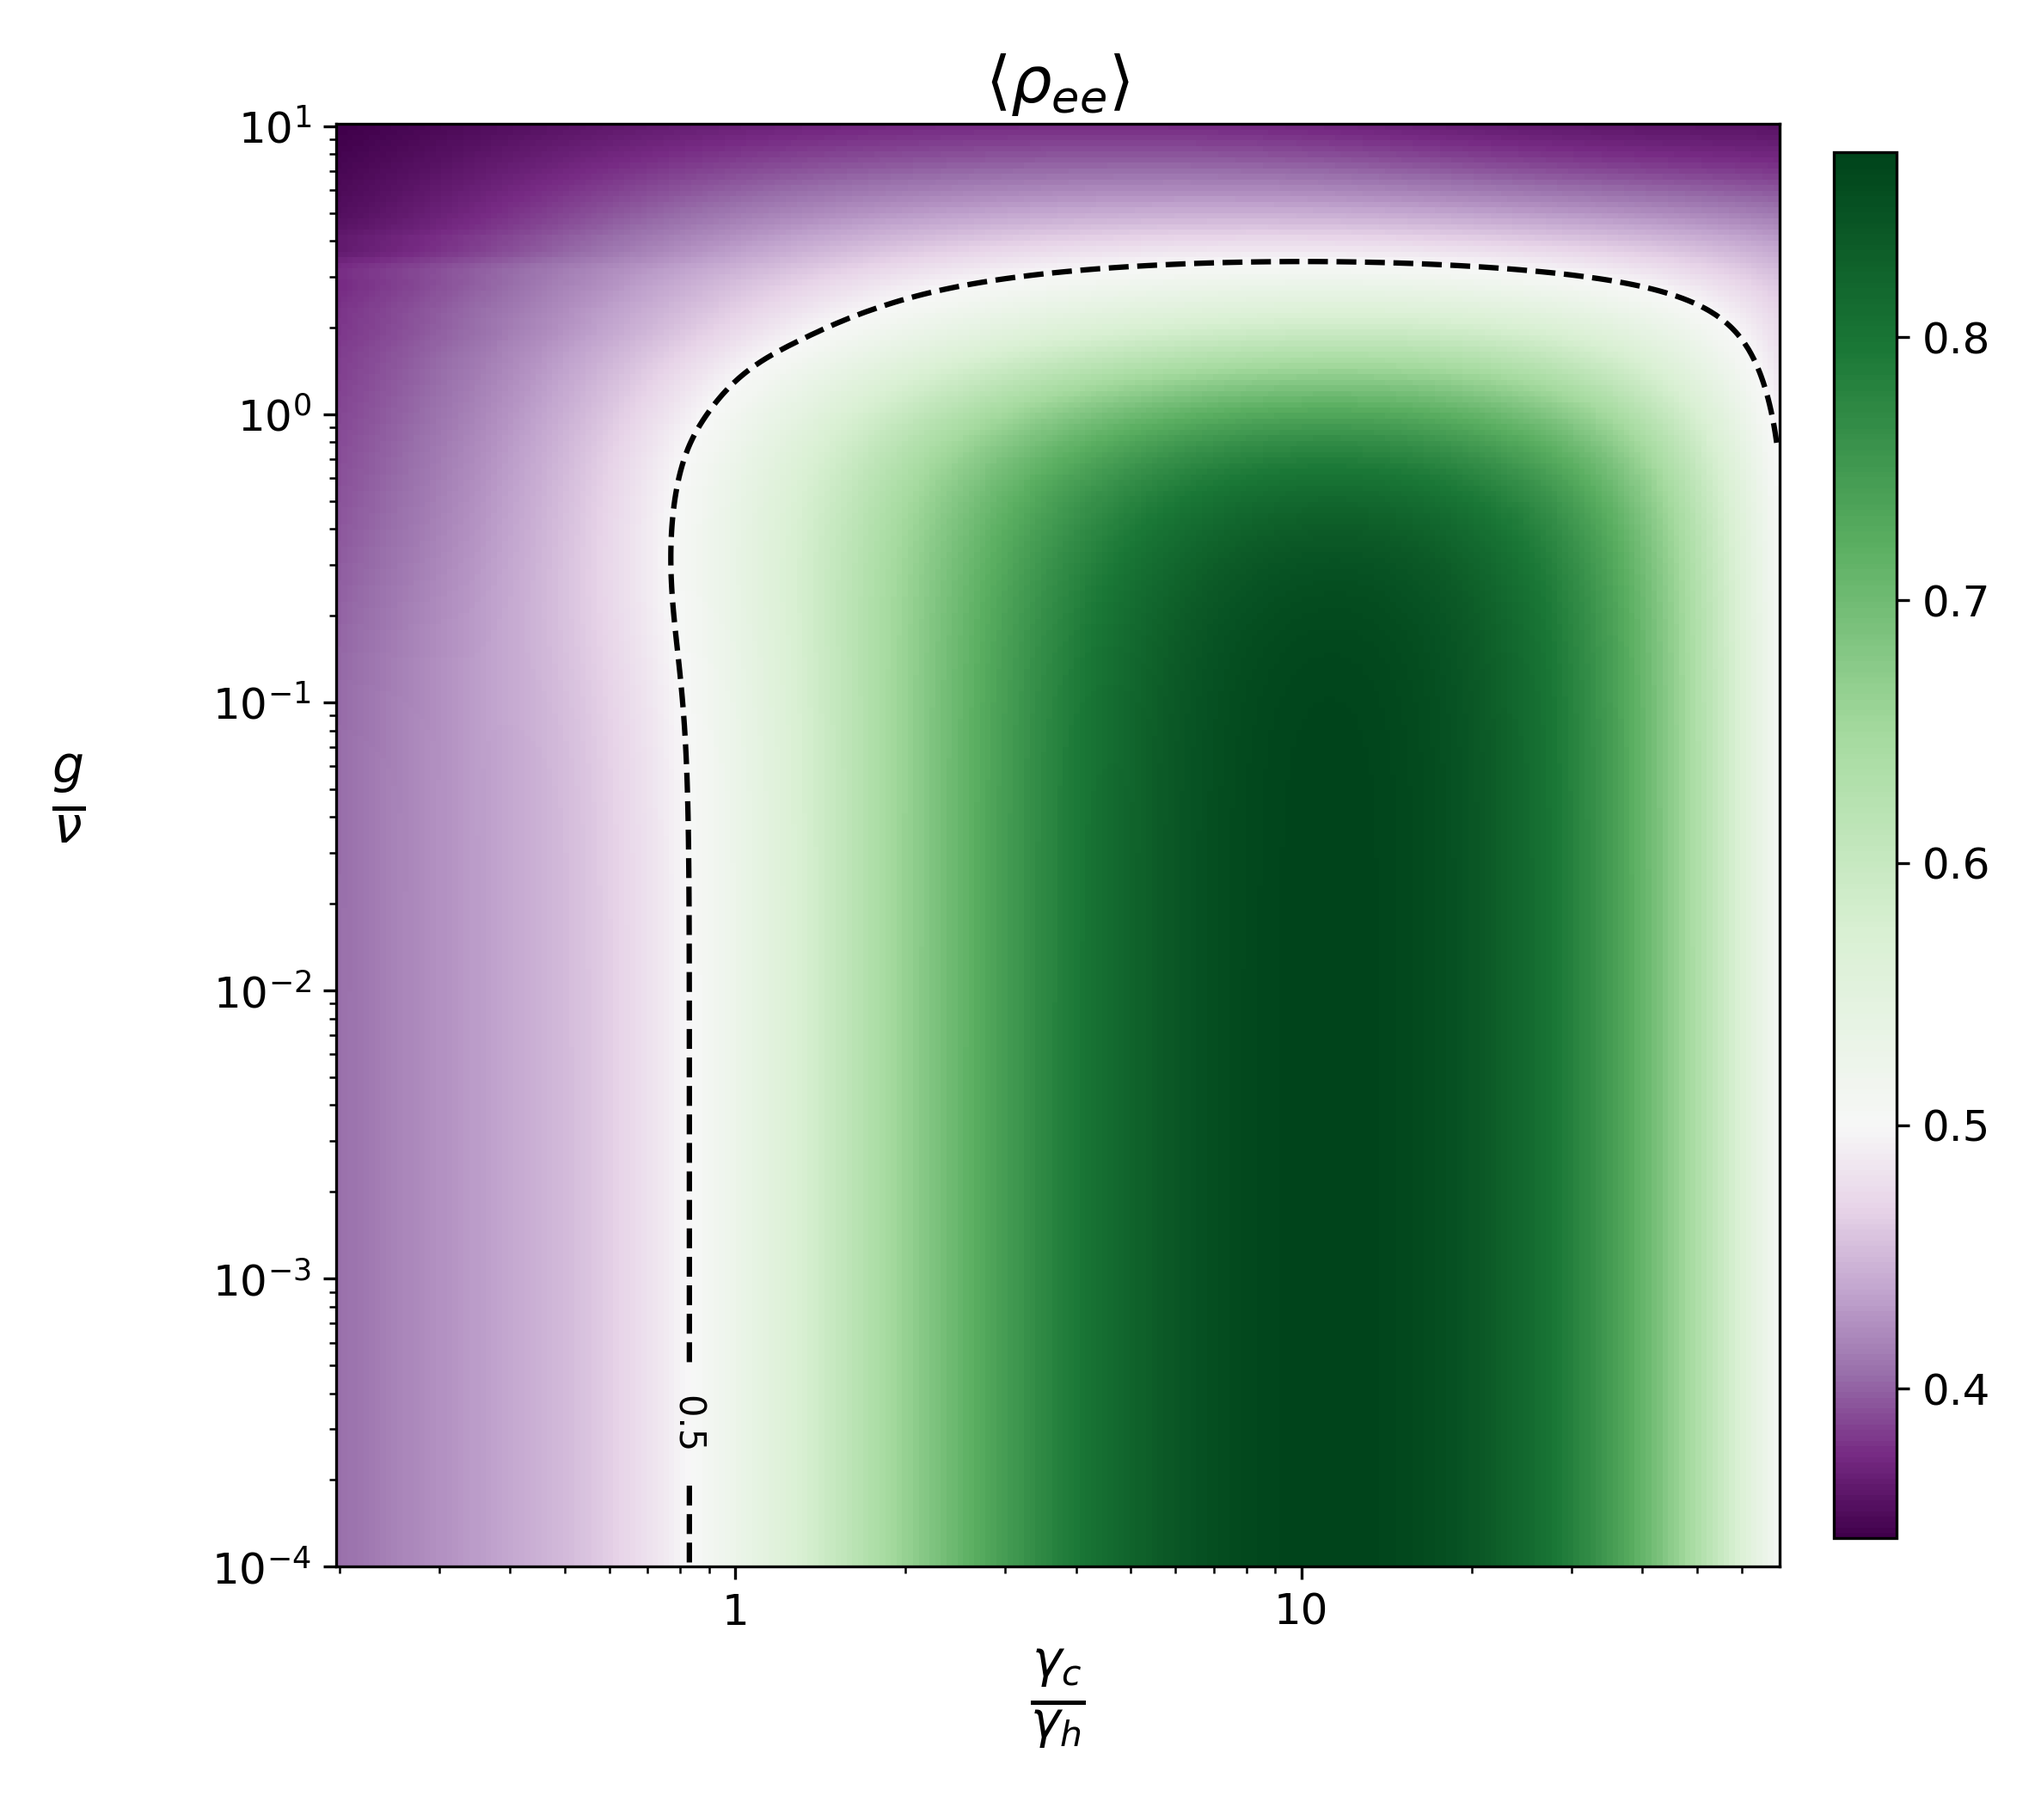
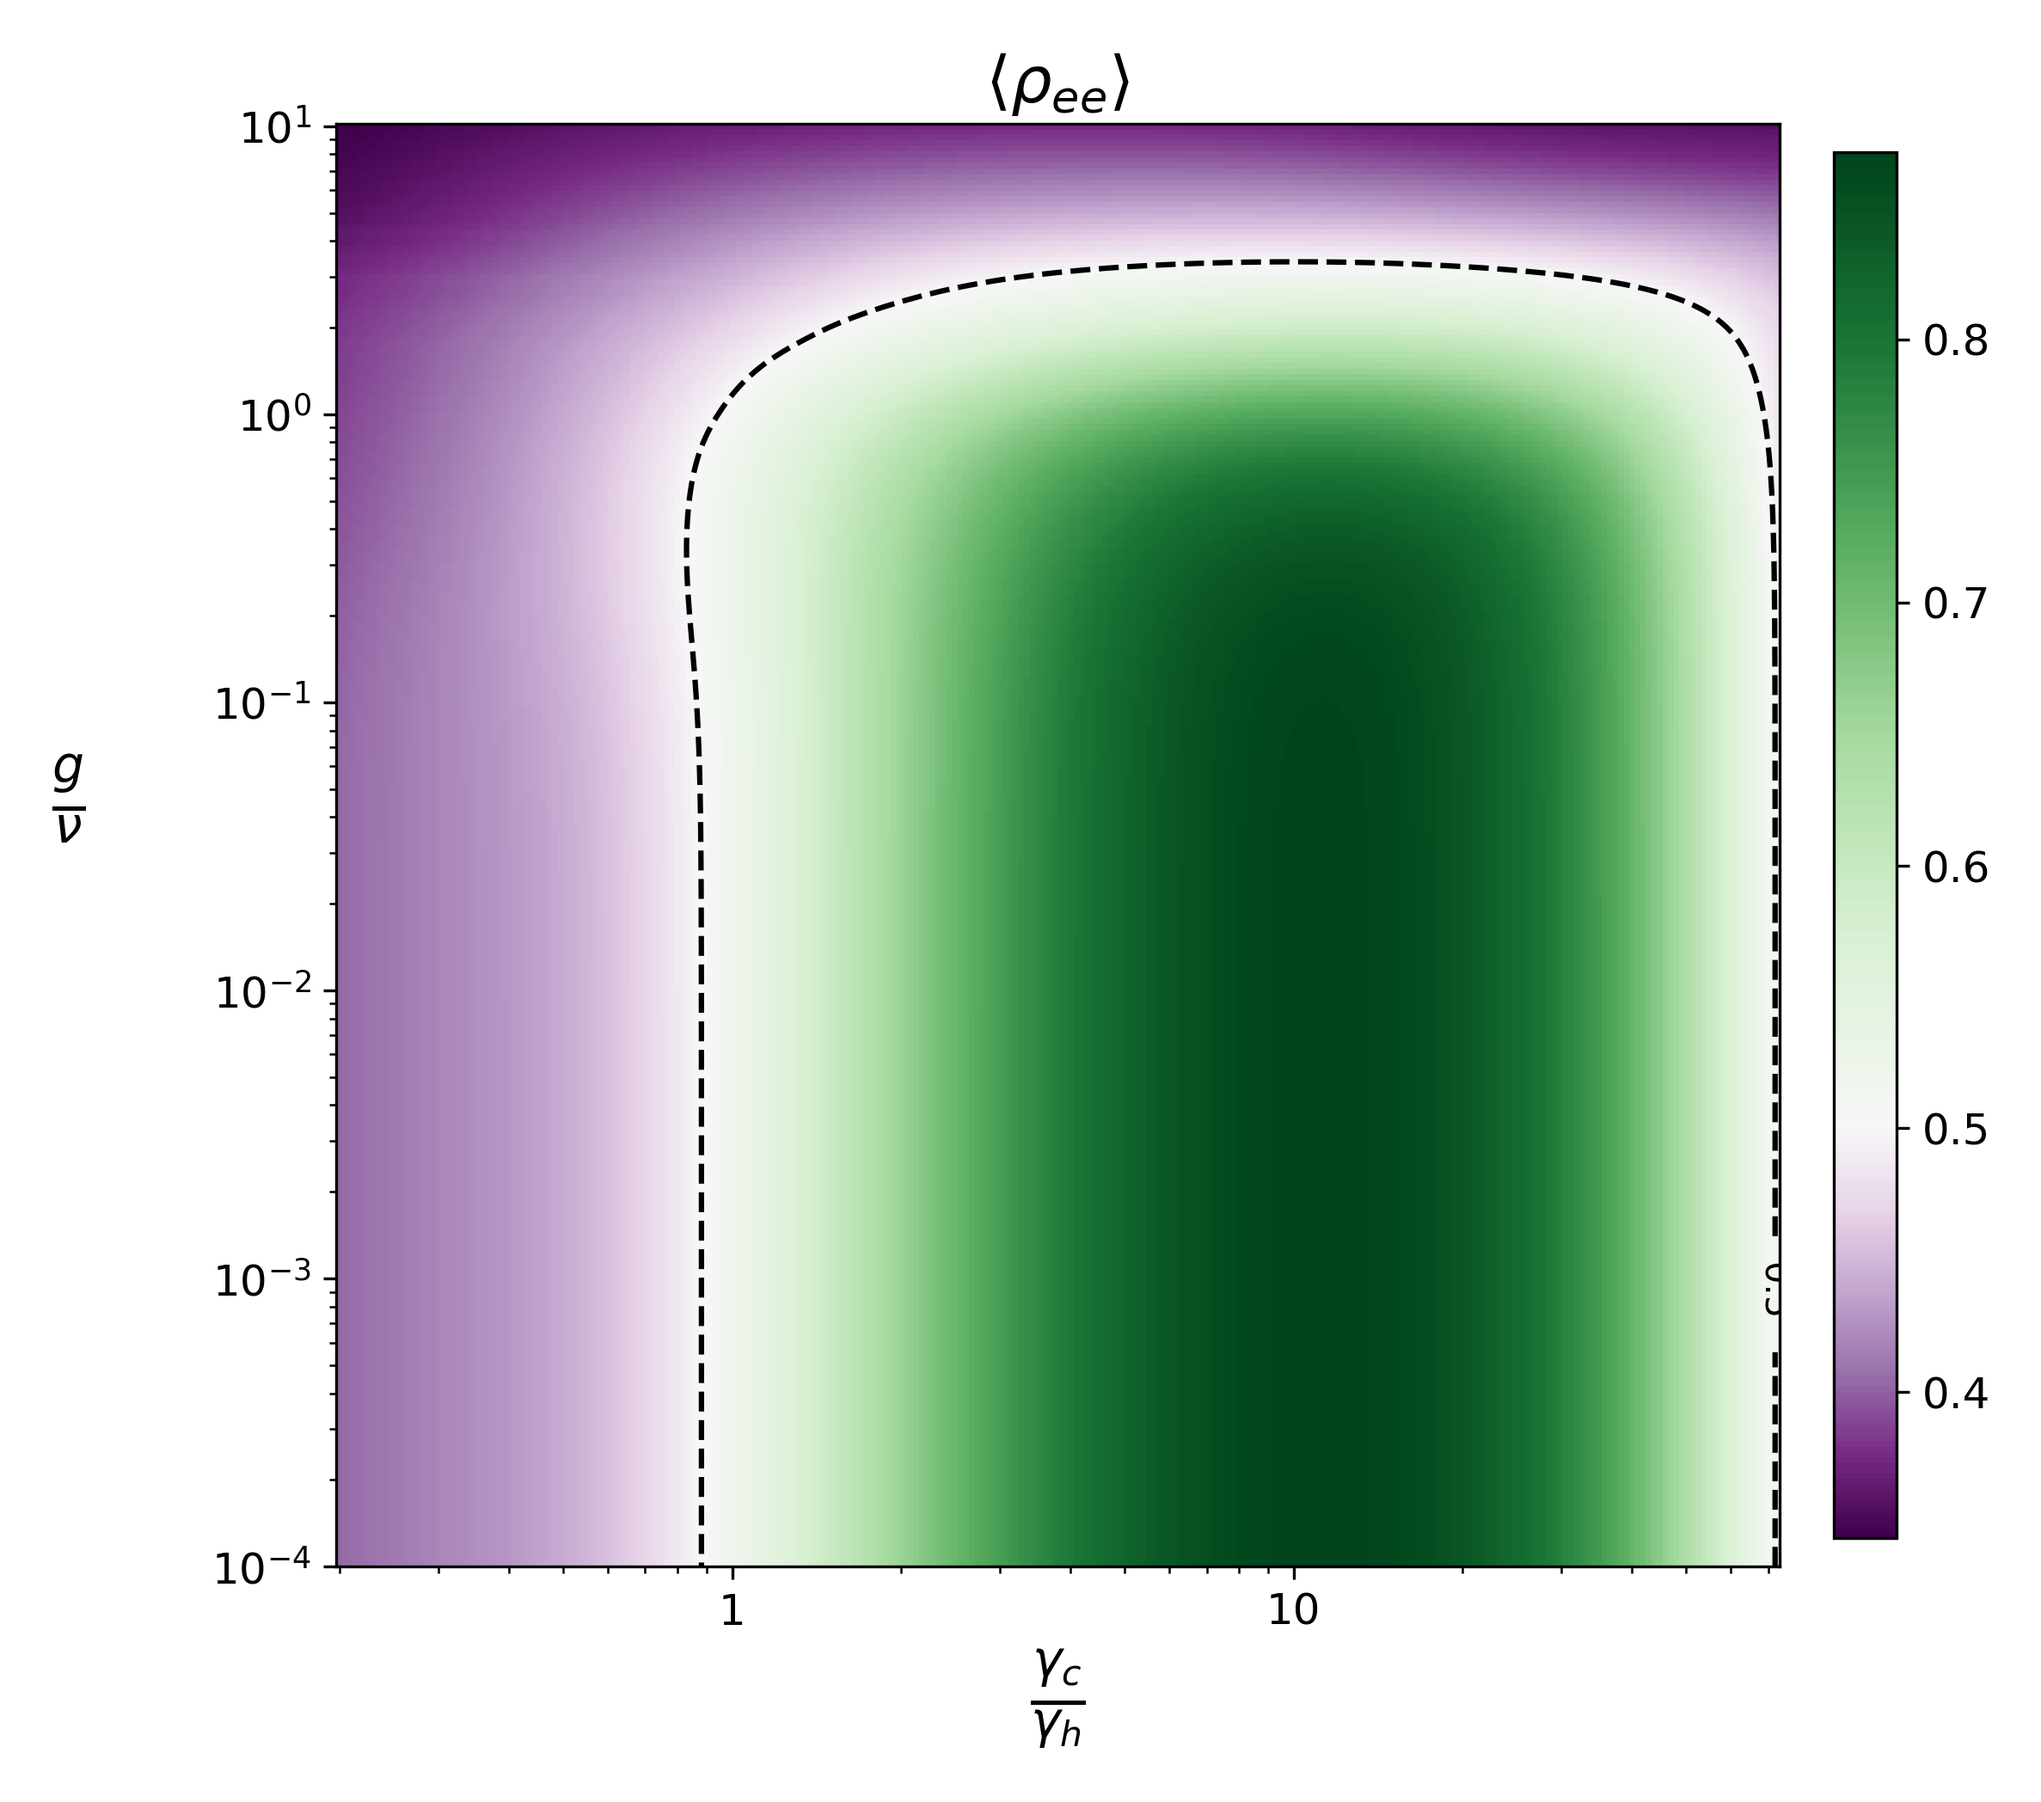
batteri

diff --git a/Ergotropy-Battery.py b/Ergotropy-Battery.py
@@ -24,7 +24,7 @@ T_h = w0/(np.log(2))   # temp Einheit von  hb*omega durch kb
 
 T_c = 1.2
 
-N=10 # Größe Hilbertraum von vibronic system
+N=35 # Größe Hilbertraum von vibronic system
 
 
 #Bolzman verteilung funktion(frequenz, inv temp)
@@ -307,7 +307,7 @@ if __name__ == "__main__":
         (H_6, c_ops_list_6),
         (H_7, c_ops_list_7),
         (H_8, c_ops_list_8),
-        #(H_9, c_ops_list_9),
+        (H_9, c_ops_list_9),
         #(H_10,c_ops_list_10),
         
     ]
@@ -359,6 +359,10 @@ energy_7_ss=Energy_ss(H_7_free,RHOS_ss[5])
 ergo_8_ss=ergotropy_ss(H_8_free,RHOS_ss[6])
 #ergo_5_ss_diag=ergotropy_ss_diag_only(H_4_free,RHOS_ss[2])
 energy_8_ss=Energy_ss(H_8_free,RHOS_ss[6])
+
+ergo_9_ss=ergotropy_ss(H_9_free,RHOS_ss[7])
+#ergo_5_ss_diag=ergotropy_ss_diag_only(H_4_free,RHOS_ss[2])
+energy_9_ss=Energy_ss(H_9_free,RHOS_ss[7])
 #######################################################################################################################
 #Plot
 
@@ -372,11 +376,11 @@ energy_8_ss=Energy_ss(H_8_free,RHOS_ss[6])
 
 
 
-n=np.array([2,3,4,5,6,7,8])
+n=np.array([2,3,4,5,6,7,8,9])
 
-total_energy=[100,100,100,100,100,100,100]
-filled_ergotropy=[ergo_2_ss/wcav*100, ergo_3_ss/(2*wcav)*100, ergo_4_ss/(3*wcav)*100,(ergo_5_ss/(4*wcav))*100,(ergo_6_ss/(5*wcav))*100,(ergo_7_ss/(6*wcav))*100,(ergo_8_ss/(7*wcav))*100]
-filled_energy=[energy_2_ss/wcav*100, energy_3_ss/(2*wcav)*100, energy_4_ss/(3*wcav)*100,energy_5_ss/(4*wcav)*100,energy_6_ss/(5*wcav)*100,energy_7_ss/(6*wcav)*100,energy_8_ss/(7*wcav)*100]
+total_energy=[100,100,100,100,100,100,100,100]
+filled_ergotropy=[ergo_2_ss/wcav*100, ergo_3_ss/(2*wcav)*100, ergo_4_ss/(3*wcav)*100,(ergo_5_ss/(4*wcav))*100,(ergo_6_ss/(5*wcav))*100,(ergo_7_ss/(6*wcav))*100,(ergo_8_ss/(7*wcav))*100,(ergo_9_ss)/(8*wcav)*100]
+filled_energy=[energy_2_ss/wcav*100, energy_3_ss/(2*wcav)*100, energy_4_ss/(3*wcav)*100,energy_5_ss/(4*wcav)*100,energy_6_ss/(5*wcav)*100,energy_7_ss/(6*wcav)*100,energy_8_ss/(7*wcav)*100,energy_9_ss/(8*wcav)*100]
 figSäule, ax =plt.subplots()
 
 ax.bar(n,total_energy, edgecolor='black',facecolor='none')
@@ -387,7 +391,7 @@ ax.bar(5,filled_ergotropy[3],edgecolor='black',facecolor='springgreen')
 ax.bar(6,filled_ergotropy[4],edgecolor='black',facecolor='gold')
 ax.bar(7,filled_ergotropy[5],edgecolor='black',facecolor='orange')
 ax.bar(8,filled_ergotropy[6],edgecolor='black',facecolor='tomato')
-
+ax.bar(9,filled_ergotropy[7],edgecolor='black',facecolor='red')
 transpa=0.26
 ax.bar(2,filled_energy[0],edgecolor='black',facecolor='darkviolet',alpha=transpa)
 ax.bar(3,filled_energy[1],edgecolor='black',facecolor='blue',alpha=transpa)
@@ -396,15 +400,16 @@ ax.bar(5,filled_energy[3],edgecolor='black',facecolor='springgreen',alpha=transp
 ax.bar(6,filled_energy[4],edgecolor='black',facecolor='gold',alpha=transpa)
 ax.bar(7,filled_energy[5],edgecolor='black',facecolor='orange',alpha=transpa)
 ax.bar(8,filled_energy[6],edgecolor='black',facecolor='tomato',alpha=transpa)
+ax.bar(8,filled_energy[7],edgecolor='black',facecolor='red',alpha=transpa)
 ax.set_ylabel(r"$\frac{\frac{\mathcal{W}_{\mathcal{H}_{free}}(t)} { \nu}}{n \omega_B}$",fontsize=14,rotation=0,labelpad=20  )
-ax.text(-0.08, 0.80, r"$\frac{\text{Tr}[\mathcal{H}_{free} \rho(t)]}{n \omega_B }$", transform=ax.transAxes,rotation=0, va='bottom', ha='center')
+ax.text(-0.08, 0.80, r"$\frac{\mathrm{Tr}[\mathcal{H}_{free} \rho(t)]}{n \omega_B }$", transform=ax.transAxes,rotation=0, va='bottom', ha='center')
 ax.set_xlabel(
     r"Size of spinsystem $n$",
     fontsize=14,
     rotation=0,
     labelpad=20  # Abstand von der Achse
 )
-for i in range(7):
+for i in range(8):
     #ax.bar(n[i], filled_ergotropy[i], edgecolor='black', facecolor=colors[i])
     
     # Prozent berechnen
@@ -418,7 +423,7 @@ for i in range(7):
         ha='center', va='bottom', fontsize=11, fontweight='bold'
     )
 
-for i in range(7):
+for i in range(8):
     #ax.bar(n[i], filled_ergotropy[i], edgecolor='black', facecolor=colors[i])
     
     # Prozent berechnen

diff --git a/Optim_Param.py b/Optim_Param.py
@@ -95,8 +95,8 @@ def collaps_operators(N,N_Test_Level,T_h,T_c,gamma_c):
     return c_op_list
 
 def grid_maker():
-    vec1 = np.logspace(-4, 1, 30,dtype=np.float64)                     # y-Achse (g/ν)
-    vec2 = np.logspace(-2.7, -0.16 , 30,dtype=np.float64)  # x-Achse (γ_c/ν)
+    vec1 = np.logspace(-4, 1, 260,dtype=np.float64)                     # y-Achse (g/ν)
+    vec2 = np.logspace(-2.7, -0.14 , 260,dtype=np.float64)  # x-Achse (γ_c/ν)
     Z = np.empty((len(vec1), len(vec2)))                  # Z[i,j] = (vec1[i], vec2[j])
 
     for gi in enumerate(vec1):
